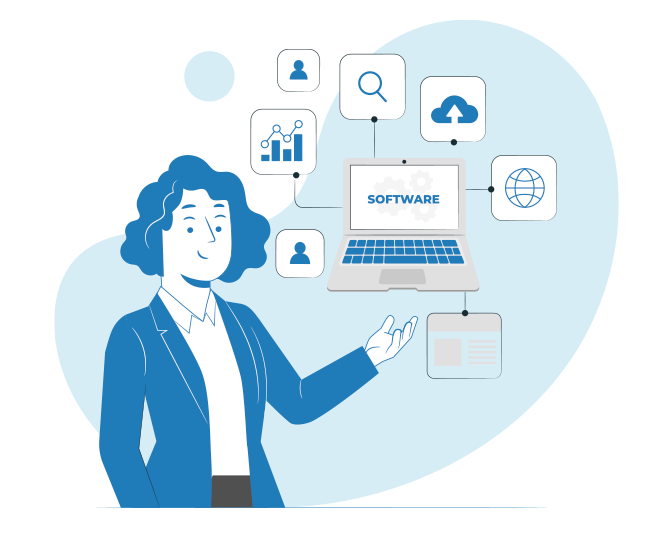
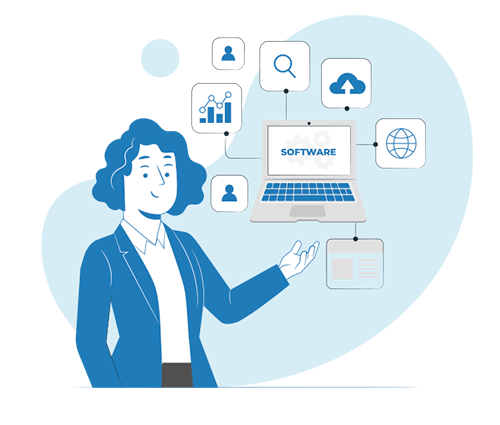
fix responsive

diff --git a/src/templates/Career.vue b/src/templates/Career.vue
@@ -6,9 +6,9 @@
         <div class="md:max-w-8">
           <div class="">
             <div
-              class="md:order-12 mx-auto transform my-4 transition duration-500 hover:scale-105"
+              class="md:order-12 mx-auto transform my-4 transition duration-500 hover:scale-105 py-4"
             >
-              <g-image :src="$page.careers.img" class="mx-auto w-1/2" />
+              <g-image :src="$page.careers.img" class="mx-auto" />
             </div>
             <div
               class="markdown mb-10 mx-auto max-w-max overflow-hidden rounded-lg md:order-1"
